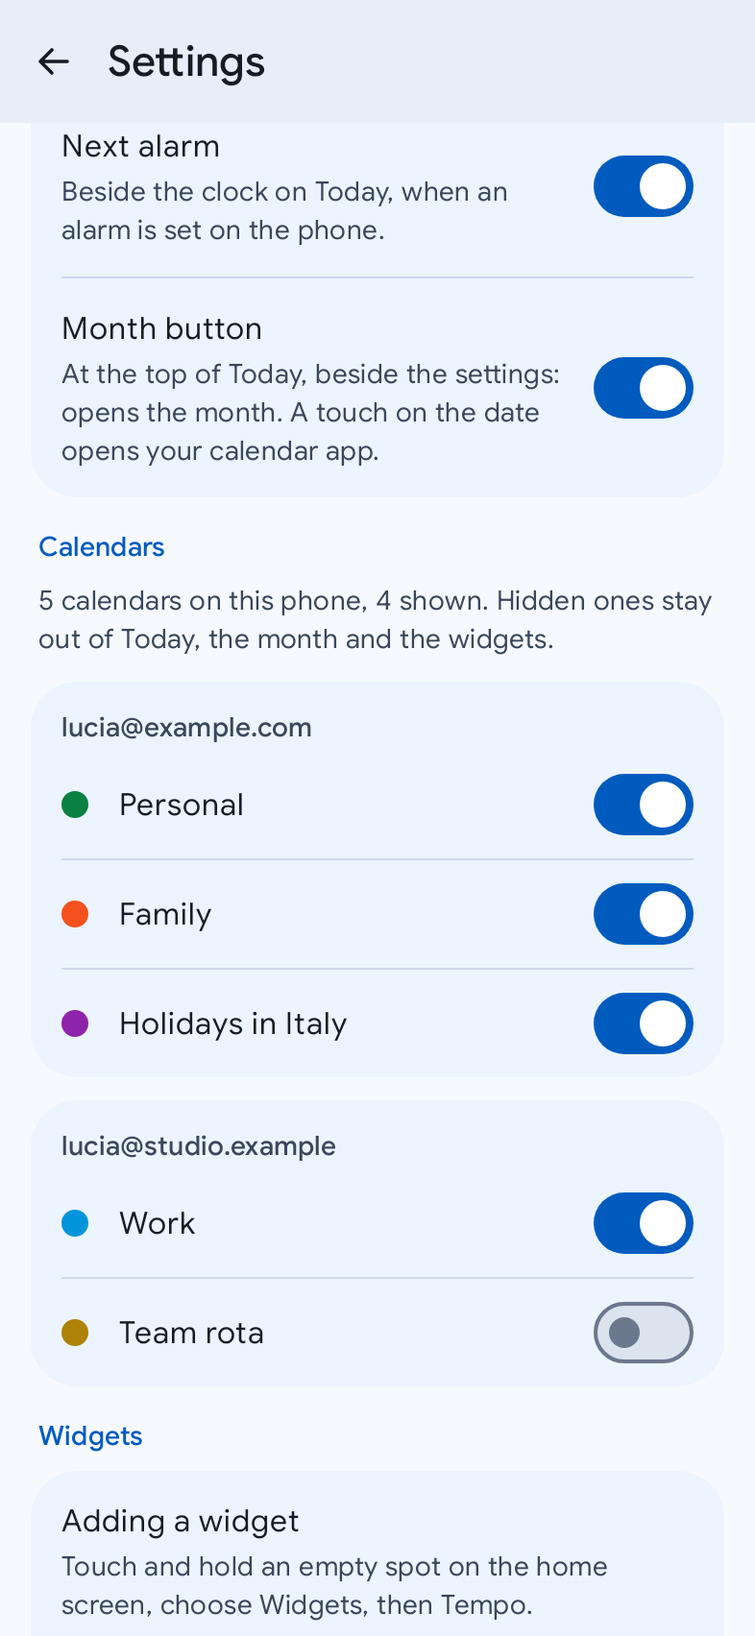
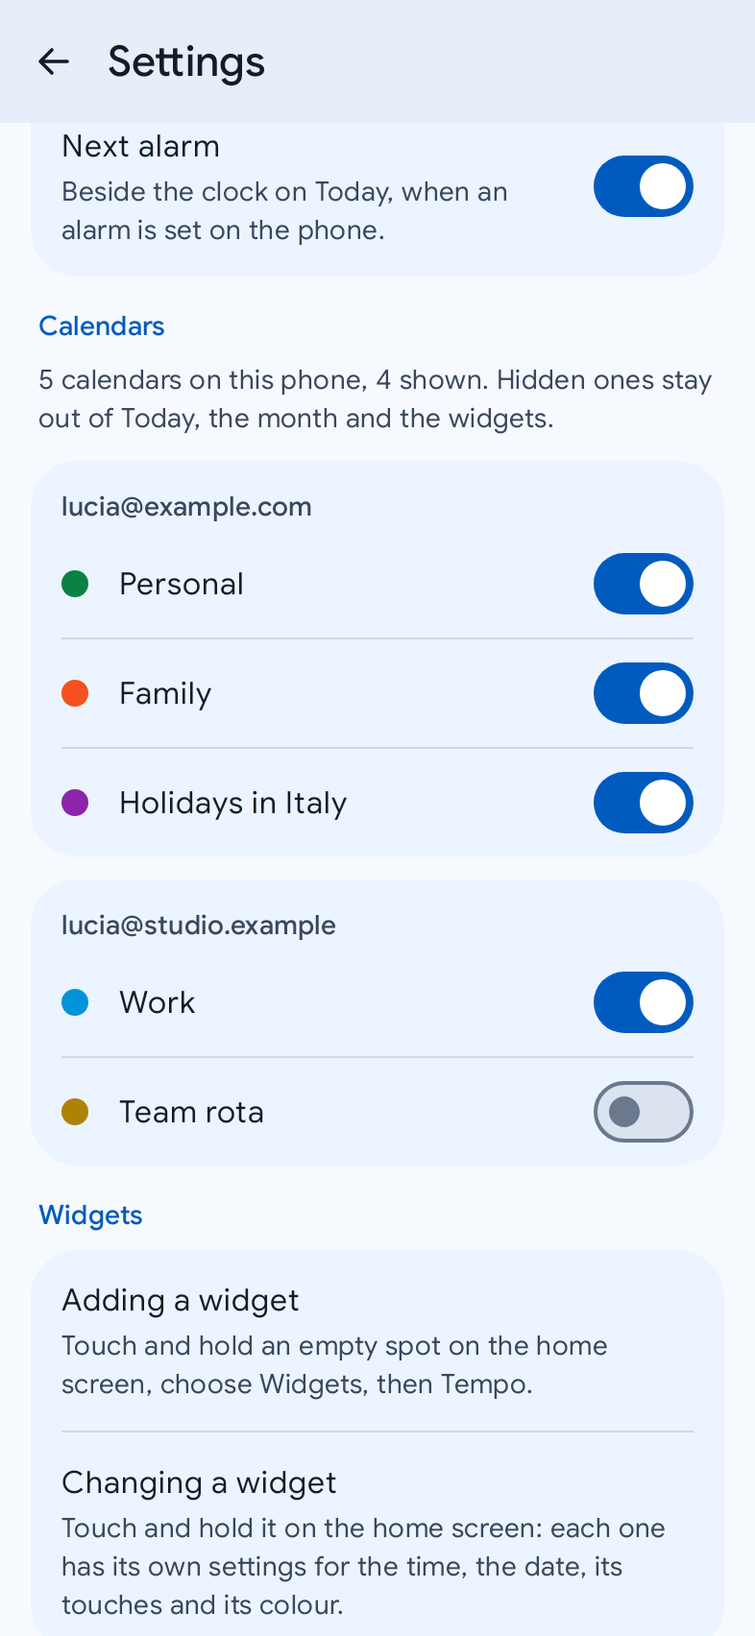
The month's button has no switch: it is always on Today
The switch was made for a button that doubled the touch on the date. As
the month's only door, turned off it left the month out of reach, and a
reader who had it off before the update would not have found the month
(owner, 23 Nov 2026). Today's button is always drawn; the setting, its row
in Settings and its words are gone, and the stored key leaves the settings
file at the next write. The settings picture regenerated.

PLANNING also records what was looked at on the owner's question about
logs: Tempo writes no log file, its eight log lines go to Android's own
fixed-size log and carry no event's words, and neither stored file grows
with use. Nothing to change.

Changed region(s): [[0.0611, 0.1866, 0.9466, 0.8398], [0.0611, 0.5288, 0.8244, 0.9953], [0.855, 0.9331, 0.8855, 0.9642]]

diff --git a/core/data/src/main/kotlin/com/callbackdev/tempo/core/data/settings/SettingsRepository.kt b/core/data/src/main/kotlin/com/callbackdev/tempo/core/data/settings/SettingsRepository.kt
@@ -65,7 +65,6 @@ class SettingsRepository @Inject constructor(private val dataStore: DataStore<Pr
             showDeclined = prefs[Keys.SHOW_DECLINED] ?: defaults.showDeclined,
             showAllDay = prefs[Keys.SHOW_ALL_DAY] ?: defaults.showAllDay,
             showNextAlarm = prefs[Keys.SHOW_NEXT_ALARM] ?: defaults.showNextAlarm,
-            showCalendarButton = prefs[Keys.SHOW_CALENDAR_BUTTON] ?: defaults.showCalendarButton,
             timeOpensClock = prefs[Keys.TIME_OPENS_CLOCK] ?: defaults.timeOpensClock,
             secondZone = prefs[Keys.SECOND_ZONE],
             onboardingCompleted = prefs[Keys.ONBOARDING_COMPLETED] ?: defaults.onboardingCompleted,
@@ -76,6 +75,8 @@ class SettingsRepository @Inject constructor(private val dataStore: DataStore<Pr
 
     private fun write(prefs: MutablePreferences, old: UserSettings, new: UserSettings) {
         val d = UserSettings()
+        // A key no setting reads any more goes with the next write: the file holds what is used.
+        Keys.RETIRED.forEach(prefs::remove)
         prefs.write(Keys.THEME, old.theme.name, new.theme.name, d.theme.name)
         prefs.write(Keys.PALETTE, old.palette.name, new.palette.name, d.palette.name)
         prefs.write(Keys.FONT, old.font.name, new.font.name, d.font.name)
@@ -92,7 +93,6 @@ class SettingsRepository @Inject constructor(private val dataStore: DataStore<Pr
         prefs.write(Keys.SHOW_DECLINED, old.showDeclined, new.showDeclined, d.showDeclined)
         prefs.write(Keys.SHOW_ALL_DAY, old.showAllDay, new.showAllDay, d.showAllDay)
         prefs.write(Keys.SHOW_NEXT_ALARM, old.showNextAlarm, new.showNextAlarm, d.showNextAlarm)
-        prefs.write(Keys.SHOW_CALENDAR_BUTTON, old.showCalendarButton, new.showCalendarButton, d.showCalendarButton)
         prefs.write(Keys.TIME_OPENS_CLOCK, old.timeOpensClock, new.timeOpensClock, d.timeOpensClock)
         prefs.write(Keys.SECOND_ZONE, old.secondZone.orEmpty(), new.secondZone.orEmpty(), "")
         prefs.write(Keys.ONBOARDING_COMPLETED, old.onboardingCompleted, new.onboardingCompleted, d.onboardingCompleted)
@@ -123,12 +123,18 @@ class SettingsRepository @Inject constructor(private val dataStore: DataStore<Pr
         val SHOW_DECLINED = booleanPreferencesKey("show_declined")
         val SHOW_ALL_DAY = booleanPreferencesKey("show_all_day")
         val SHOW_NEXT_ALARM = booleanPreferencesKey("show_next_alarm")
-        val SHOW_CALENDAR_BUTTON = booleanPreferencesKey("show_calendar_button")
         val TIME_OPENS_CLOCK = booleanPreferencesKey("time_opens_clock")
         val SECOND_ZONE = stringPreferencesKey("second_zone")
         val ONBOARDING_COMPLETED = booleanPreferencesKey("onboarding_completed")
         val TODAY_TIP_SEEN = booleanPreferencesKey("today_tip_seen")
         val ASKED_CALENDAR_PERMISSION = booleanPreferencesKey("asked_calendar_permission")
+
+        /**
+         * Settings that are gone. `show_calendar_button` hid Today's button beside the gear while
+         * it doubled the touch on the date; since that button is the month's only door it is
+         * always drawn (owner, PLANNING.md §15, 23 Nov 2026).
+         */
+        val RETIRED = listOf(booleanPreferencesKey("show_calendar_button"))
     }
 
     companion object {

diff --git a/core/data/src/test/kotlin/com/callbackdev/tempo/core/data/settings/SettingsRepositoryTest.kt b/core/data/src/test/kotlin/com/callbackdev/tempo/core/data/settings/SettingsRepositoryTest.kt
@@ -48,6 +48,25 @@ class SettingsRepositoryTest {
     }
 
     @Test
+    fun `a setting that is gone leaves the file at the next write`() = runTest {
+        val retired = booleanPreferencesKey("show_calendar_button")
+        if (!::file.isInitialized) file = File(folder.root, "settings.preferences_pb")
+        val job = Job()
+        val store = PreferenceDataStoreFactory.create(
+            scope = CoroutineScope(UnconfinedTestDispatcher(testScheduler) + job),
+            produceFile = { file },
+        )
+        // A reader of an earlier version had turned Today's calendar button off.
+        store.edit { it[retired] = false }
+        val repository = SettingsRepository(store)
+        assertThat(repository.settings.first()).isEqualTo(UserSettings())
+        repository.update { it.copy(showDeclined = true) }
+        assertThat(store.data.first().contains(retired)).isFalse()
+        assertThat(repository.settings.first().showDeclined).isTrue()
+        job.cancelAndJoin()
+    }
+
+    @Test
     fun `every setting survives a restart`() = runTest {
         val choice = CalendarChoice(7, "com.google", "reader@example.com", "Family | home", shown = false)
         val chosen = UserSettings(
@@ -61,7 +80,6 @@ class SettingsRepositoryTest {
             showDeclined = true,
             showAllDay = false,
             showNextAlarm = false,
-            showCalendarButton = false,
             timeOpensClock = false,
             secondZone = "America/New_York",
             onboardingCompleted = true,

diff --git a/core/model/src/main/kotlin/com/callbackdev/tempo/core/model/UserSettings.kt b/core/model/src/main/kotlin/com/callbackdev/tempo/core/model/UserSettings.kt
@@ -8,9 +8,6 @@ package com.callbackdev.tempo.core.model
  *   a week by default (owner, PLANNING.md §15).
  * @property calendarChoices the calendars the reader turned on or off in Tempo; a calendar with no
  *   choice follows the calendar app ([CalendarInfo.visibleInProvider]).
- * @property showCalendarButton whether Today draws the button beside the settings' gear: the
- *   month's door since Phase 9 (it opened the reader's calendar app at today until then, as a
- *   touch on the date still does; owner, PLANNING.md §15, 9 Oct and 23 Nov 2026).
  * @property timeOpensClock whether a touch on Today's time, its figures or its clock face, opens
  *   the phone's clock app (owner, PLANNING.md §15, 23 Nov 2026).
  * @property secondZone the second clock's city, as a time-zone id ("America/New_York"); null when
@@ -32,7 +29,6 @@ data class UserSettings(
     val showDeclined: Boolean = false,
     val showAllDay: Boolean = true,
     val showNextAlarm: Boolean = true,
-    val showCalendarButton: Boolean = true,
     val timeOpensClock: Boolean = true,
     val secondZone: String? = null,
     val onboardingCompleted: Boolean = false,

diff --git a/feature/today/src/main/kotlin/com/callbackdev/tempo/feature/today/TodayScreen.kt b/feature/today/src/main/kotlin/com/callbackdev/tempo/feature/today/TodayScreen.kt
@@ -686,11 +686,10 @@ private fun Hero(
                     .padding(end = 8.dp)
                     .testTag(TodayTags.DATE),
             )
-            // The month is Tempo's own page: there with or without a calendar app to hand a day to.
-            if (state.settings.showCalendarButton) {
-                IconButton(onClick = actions.openMonth, modifier = Modifier.testTag(TodayTags.MONTH)) {
-                    Icon(TempoIcons.Calendar, stringResource(R.string.today_open_month), tint = quiet)
-                }
+            // The month is Tempo's own page: there with or without a calendar app to hand a day
+            // to, and always, since this button is its only door.
+            IconButton(onClick = actions.openMonth, modifier = Modifier.testTag(TodayTags.MONTH)) {
+                Icon(TempoIcons.Calendar, stringResource(R.string.today_open_month), tint = quiet)
             }
             IconButton(onClick = actions.openSettings, modifier = Modifier.testTag(TodayTags.SETTINGS)) {
                 Icon(TempoIcons.Settings, stringResource(R.string.today_settings), tint = quiet)

diff --git a/feature/settings/src/main/kotlin/com/callbackdev/tempo/feature/settings/SettingsScreen.kt b/feature/settings/src/main/kotlin/com/callbackdev/tempo/feature/settings/SettingsScreen.kt
@@ -305,14 +305,6 @@ private fun SettingsList(
                     checked = settings.showNextAlarm,
                     onChange = { on -> actions.update { it.copy(showNextAlarm = on) } },
                 )
-                GroupDivider()
-                SwitchRow(
-                    label = stringResource(R.string.settings_calendar_button),
-                    note = stringResource(R.string.settings_calendar_button_note),
-                    checked = settings.showCalendarButton,
-                    onChange = { on -> actions.update { it.copy(showCalendarButton = on) } },
-                    modifier = Modifier.testTag(SettingsTags.CALENDAR_BUTTON),
-                )
             }
         }
 
@@ -767,7 +759,6 @@ object SettingsTags {
     const val DATE = "settings_date"
     const val HORIZON = "settings_horizon"
     const val DECLINED = "settings_declined"
-    const val CALENDAR_BUTTON = "settings_calendar_button"
     const val TIME_DOOR = "settings_time_door"
     const val PERMISSION = "settings_permission"
     const val CALENDARS_SUMMARY = "settings_calendars_summary"

diff --git a/feature/today/src/test/kotlin/com/callbackdev/tempo/feature/today/TodayScreenTest.kt b/feature/today/src/test/kotlin/com/callbackdev/tempo/feature/today/TodayScreenTest.kt
@@ -417,14 +417,6 @@ class TodayScreenTest {
     }
 
     @Test
-    fun `the month's button goes when the reader hides it`() {
-        draw(TodaySample.state(settings = TodaySample.settings.copy(showCalendarButton = false)))
-        compose.onNodeWithTag(TodayTags.MONTH).assertDoesNotExist()
-        // The date stays a door to the calendar, as it always was.
-        compose.onNodeWithTag(TodayTags.DATE).assertHasClickAction()
-    }
-
-    @Test
     fun `with no calendar app the date is no door, and the month is still Tempo's own`() {
         draw(TodaySample.state(doors = CalendarDoors.None))
         compose.onNodeWithTag(TodayTags.MONTH).assertHasClickAction()

diff --git a/feature/settings/src/test/kotlin/com/callbackdev/tempo/feature/settings/SettingsScreenTest.kt b/feature/settings/src/test/kotlin/com/callbackdev/tempo/feature/settings/SettingsScreenTest.kt
@@ -273,16 +273,6 @@ class SettingsScreenTest {
     }
 
     @Test
-    fun `Today's month button is on by default and one switch away`() {
-        var saved = UserSettings()
-        draw(actions = SettingsActions(update = { saved = it(saved) }))
-        scrollTo(SettingsTags.CALENDAR_BUTTON)
-        compose.onNodeWithTag(SettingsTags.CALENDAR_BUTTON).performClick()
-        // One touch from the default turns it off: so the default was on.
-        assertThat(saved.showCalendarButton).isFalse()
-    }
-
-    @Test
     fun `the calendars by account, each with its state, and how many are shown`() {
         draw()
         scrollTo(SettingsTags.CALENDARS_SUMMARY)

diff --git a/PLANNING.md b/PLANNING.md
@@ -18,7 +18,7 @@
 
 - **Released**: 1.1.0 (2 Nov 2026, `v1.1.0`). What came in after is in `CHANGELOG.md`'s `[Unreleased]` section.
 - **Closed**: Phases 0 to 6 (the 1.0.0, 10 Oct 2026) and the 1.0.1 after them: their steps, their acceptance and their log are in `docs/planning/01-phases-0-8.md`. Phase 8, the 1.1.0 (30 Oct to 2 Nov 2026): its plan, its steps and the log from 2 Nov 2026 are in `docs/planning/02-phase-8.md`, the entries of its steps 8.0 to 8.7 in archive 01.
-- **In progress**: nothing. Phase 9, the month and the time's door (§11; owner, 23 Nov 2026), is built and was checked on the owner's phone the same day (PR #35); it is in `CHANGELOG.md`'s `[Unreleased]`. Open, in §15: one question on the month button's switch, 8.4 («Join», on hold), 1.1's battery check on the phone, and two boxes carried from before.
+- **In progress**: nothing. Phase 9, the month and the time's door (§11; owner, 23 Nov 2026), is built and was checked on the owner's phone the same day (PR #35); it is in `CHANGELOG.md`'s `[Unreleased]`. Open, in §15: 8.4 («Join», on hold), 1.1's battery check on the phone, and two boxes carried from before.
 - **Later, and optional**: Phase 7, Google Play (§11).
 
 ---
@@ -248,7 +248,6 @@ Tempo has no database. The Calendar Provider is the only truth for events; Tempo
 | `show_declined` | false | Declined invitations |
 | `show_all_day` | true | All-day events |
 | `show_next_alarm` | true | The next alarm line |
-| `show_calendar_button` | true | Today's button beside the gear: the month's door since Phase 9 (§15, 23 Nov 2026); the calendar app at today until then (§15, 9 Oct 2026), as a touch on the date still is |
 | `time_opens_clock` | true | Whether a touch on Today's time, its figures or its face, opens the phone's clock app (Phase 9; §15, 23 Nov 2026) |
 | `second_zone` | none | The second clock's city, as a time-zone id ("America/New_York"; ICU's canonical name, "Asia/Calcutta", which `java.time` knows too). An id this phone's time-zone data does not know reads as none (step 8.5) |
 | `onboarding_completed` | false | |
@@ -469,7 +468,7 @@ What is still to decide or to do, in one place, besides the steps of the phases 
 - [x] **The «New event» shortcut as an adaptive icon, on the phone** (§15, 9 Nov 2026, «The «New event» shortcut, an adaptive icon»): long press on the icon, in the phone's own mask and with the themed icons on. Done by the owner on 9 Nov 2026 (§15, «The adaptive shortcut checked on the phone, and Tetto in the family»).
 - [ ] **Today's review on the phone** (§15, 10 Nov 2026, «Today reviewed: one clock, one "now", one ground»; and 11 Nov 2026, «The dial: a cut arc fades, and the face stays while today has events»): the page in both dresses and both themes, early morning (the face with its ring empty, a long event fading at 12:25), morning and evening (the dial there and gone), the «In words» card early in the day, the day markers on the 12-hour clock, the button's icon over the last rows, TalkBack on the all-day events and the button.
 - [x] **Phase 9 on the phone, before the merge** (§11, step 9.6; §15, 23 Nov 2026, «The month, and the time's door»). (1) A touch on Today's time opens the Clock app, on its figures and on the face, morning and evening; off with the switch. (2) The month from Today's button, and back with the gesture, previewed under the finger. (3) The months under a real finger: the grid's height following it between a five-week and a six-week month, the day under it sliding. (4) The marks against the calendar app's own month, with the owner's real calendars: a holiday of several days as one bar, two at once on two lanes, a day of more than three events with its plus. (5) A new event from the button and from a long touch on a date: does the calendar app open on **that date**, at the time proposed (Google Calendar and Samsung Calendar both; §4.7's intent was measured for today's dates only, `docs/device-checks/calendar-intents.md`)? Back in Tempo, the event made is chosen and glows. (6) The way to a far month, and "Today" back. (7) TalkBack on a date ("Thursday 26 November, 3 events"), on the month's name, on the time row. (8) The Tab S8+: the month beside the day. (9) §9.6's `dumpsys alarm` and `dumpsys jobscheduler` unchanged with the month open and closed. Done by the owner on 23 Nov 2026 (§15, «Phase 9 checked on the phone»): "everything works, the new event on a date other than today too". The owner's word is on the whole; (9), which needs adb, rides with 1.1's battery check below.
-- [ ] **The month button's switch: keep it, or let it go?** (§15, 23 Nov 2026.) `show_calendar_button` was a switch for a button that doubled the touch on the date (owner, 9 Oct 2026). The button is now the month's only door: turned off, the month cannot be reached, and a reader who had it off before the update does not find the month until they turn it on. Options: (a) as built: the switch stays, renamed «Month button», its note saying what it opens; (b) the switch goes, the button always there, the stored choice ignored. Asked of the owner; (a) is built.
+- [x] **The month button's switch: keep it, or let it go?** (§15, 23 Nov 2026.) `show_calendar_button` was a switch for a button that doubled the touch on the date (owner, 9 Oct 2026). The button is now the month's only door: turned off, the month cannot be reached, and a reader who had it off before the update does not find the month until they turn it on. Options: (a) as built: the switch stays, renamed «Month button», its note saying what it opens; (b) the switch goes, the button always there, the stored choice ignored. Asked of the owner; (a) was built. Answered on 23 Nov 2026: (b), the switch goes (§15, «The month's button has no switch, and nothing is logged to a file»).
 - [ ] **1.1's battery check on the phone** (step 8.8's open box; §15, 2 Nov 2026, "1.1.0 released", in archive 02). §9.6's check with «In words» placed: still one non-wakeup alarm of Tempo's at most, about two boundaries an event a day plus the moments events come onto the dial; written in `docs/device-checks/widget-refresh.md`.
 
 Reread on 2 Nov 2026, at archive 02: four boxes open, the question on the two-row «In words» (asked of the owner on 30 Oct 2026), Phase 5's Baseline Profile (carried from archive 01), 8.4's «Join» (on hold) and 1.1's battery check (both carried from archive 02); the phases' open steps are in §11 (Phase 7, optional). No proposal undecided.
@@ -1030,3 +1029,38 @@ the nine checks were not answered one by one, and the ninth (`dumpsys alarm`, `d
 jobscheduler`), which needs adb, stays with 1.1's battery check in Open; the month adds no alarm,
 no job and no service, so there is nothing new of its own to find there. Still open: whether the
 month button keeps its switch.
+
+### The month's button has no switch, and nothing is logged to a file (owner, 23 Nov 2026)
+
+**The switch goes.** The owner, on the question left in Open: "maybe better to remove it; leaving
+the button always on the main page is fine". Agreed, and for the reason the question gave: the
+switch was made for a button that doubled the touch on the date (9 Oct 2026), and the button is
+now the month's only door. Turned off it would leave the month out of reach, and a reader who
+had it off before the update would not find the month at all. Built: Today's button is always
+drawn; `UserSettings.showCalendarButton`, its row in Settings and its words are gone; the stored
+key `show_calendar_button` leaves the settings file at the next write (`Keys.RETIRED`, with its
+test), so the file holds only what is read. §5's table loses the row; ADR 0005's consequence and
+VISION are rewritten. This changes the entry of 23 Nov 2026 above, decision 6.
+
+**Logs, asked by the owner** ("I cannot do the adb check for now; what matters is that the app
+does not log too much, and that no log grows without end: it must stay as a production app").
+Looked at, nothing to change:
+
+- **Tempo writes no log file.** No file is opened for writing anywhere in the shipped code but
+  the two DataStore files: `settings` (only what differs from a default) and `widgets` (one look
+  per placed card, removed when the card is). No database of Tempo's, no cache of events. Neither
+  file grows with use.
+- **What is logged goes to Android's own log**, a ring of fixed size the system keeps in memory
+  and overwrites: it cannot grow, and it is not in Tempo's storage. Eight lines in all, in
+  `:widget` alone (tag `TempoWidget`): a card's refresh (what asked, how long the read took), a
+  resize, and the failures (a read timed out, an alarm or a trigger not armed). A few lines per
+  calendar change, none while nothing changes, none from Today, the month, Settings or the guide.
+  They carry widget ids and milliseconds, never an event's title, place or time.
+- **WorkManager's own database** (Glance's sessions and the calendar's trigger run on it) prunes
+  its finished work by itself; Tempo keeps one waiting trigger at a time (§4.5).
+- **The crash page** keeps nothing either: the trace travels in the intent that shows it, capped,
+  and the page is in debug builds and the debug-signed release only, never in a release signed
+  with the release key.
+
+The adb check of §9.6 (`dumpsys alarm`, `dumpsys jobscheduler`) stays in Open with 1.1's battery
+check: it measures alarms and jobs, which Phase 9 did not touch.

diff --git a/README.md b/README.md
@@ -38,7 +38,7 @@ Tempo only reads. It cannot write your calendar, so it can never damage it.
   <tr>
     <td align="center" width="33%"><img src="docs/screenshots/today.png" width="250" alt="Today at 10:20 AM: the date on top with the month and settings buttons, the time large beside a clock face with the day's events on its ring in their calendars' colours, the sentence Design review until 11:00 AM, then 3 more today, tomorrow's alarm, the all-day events, the morning folded, the meeting under way on its card with 40 minutes left, two free hours, the rest of the day's events, and tomorrow with its first event"><br><sub><b>Today</b>: the time, the day on a dial, and one sentence</sub></td>
     <td align="center" width="33%"><img src="docs/screenshots/today-evening-dark.png" width="250" alt="Today at 9:10 PM in the dark theme: nothing left today, tomorrow starts at 9:00 AM with a call, the time alone with no clock face, then tomorrow in full and Friday"><br><sub><b>The evening</b>: tomorrow moves up</sub></td>
-    <td align="center" width="33%"><img src="docs/screenshots/settings-calendars.png" width="250" alt="Settings: the agenda's choices with the month button's switch, and five calendars from two accounts, each with its colour and a switch, one hidden"><br><sub><b>Your calendars</b>, each shown or hidden</sub></td>
+    <td align="center" width="33%"><img src="docs/screenshots/settings-calendars.png" width="250" alt="Settings: the agenda's choices with the next alarm's switch, and five calendars from two accounts, each with its colour and a switch, one hidden"><br><sub><b>Your calendars</b>, each shown or hidden</sub></td>
   </tr>
   <tr>
     <td align="center"><img src="docs/screenshots/widgets.png" width="250" alt="The widgets on a home screen, in terracotta: a one-row At a glance with its dial, Design review until 11:00 AM, and the date at the far edge; At a glance in ochre, a clock face at 2:20 PM with the dentist drawn on its ring, Dentist from 3:00 PM to 3:45 PM, free until then; a small Agenda in ochre; Agenda at four by two with the time, the date and 4 left today until 7:30 PM beside the rest of the day and 2 more today"><br><sub><b>The widgets</b>: never a list to scroll</sub></td>

diff --git a/docs/adr/0005-the-month.md b/docs/adr/0005-the-month.md
@@ -97,9 +97,11 @@ all-day events), and without writing anything.
 
 - VISION's non-goal is rewritten: what Tempo leaves to the calendar app is the week, the day in
   hours, the year, and a month with titles to edit in.
-- `show_calendar_button` keeps its key and now hides the month's door. A reader who had hidden the
-  button does not see the month until they turn it back on; the switch's note says what it opens.
-  Whether the switch should go is asked of the owner (PLANNING.md §15, Open).
+- `show_calendar_button` is gone, and Today's button is always drawn. It was a switch for a button
+  that doubled the touch on the date; as the month's only door, turned off it would have left the
+  month out of reach, and a reader who had it off before the update would never have found it.
+  The owner's call, the same day (PLANNING.md §15). The stored key leaves the file at the next
+  write.
 - A new module, `:feature:month`. No new dependency: the pager, the sheet and the long touch are
   Compose Foundation's and Material 3's, already in the build.
 - The cost of the page is a read of about three months of instances when it opens and when a page

diff --git a/VISION.md b/VISION.md
@@ -126,7 +126,8 @@ app the reader already uses.
   opens, as from the alarm's line. The date opens the calendar, the time opens the clock. On by
   default, one switch turns it off; no door where the phone has no clock app.
 - **The button beside the gear** opens the month (below). It opened the calendar app at today
-  until 23 Nov 2026, as the date beside it still does; its switch in Settings stays.
+  until 23 Nov 2026, as the date beside it still does. Always drawn: it had a switch while it
+  doubled the date's touch, and has none now that it is the month's only door.
 - **Live while visible**: the clock moves on each minute's start, and a change made in the
   calendar app is on screen the moment the reader comes back. Nothing runs once the page is gone.
 - **States that say what is true**: no permission (the clock works; one card explains why the

diff --git a/CHANGELOG.md b/CHANGELOG.md
@@ -31,9 +31,8 @@ All notable changes to Tempo are documented here. The format follows
 
 - **The button beside the settings opens the month** instead of your calendar app. A touch on
   the date still opens your calendar app on today, and the date now shows it, with the small
-  arrow the days' names have; a day's name opens it on that day. The
-  button's switch in the settings is now «Month button»: if you had turned it off, turn it on to
-  reach the month.
+  arrow the days' names have; a day's name opens it on that day. The button is always there: its
+  switch in the settings is gone, and if you had turned it off, it is back.
 
 - **«In words» is now «At a glance»**, the name of the clock-face widget in all the apps of the
   family, and it comes first in the widget list (in Italian; in English «Agenda» still sorts
